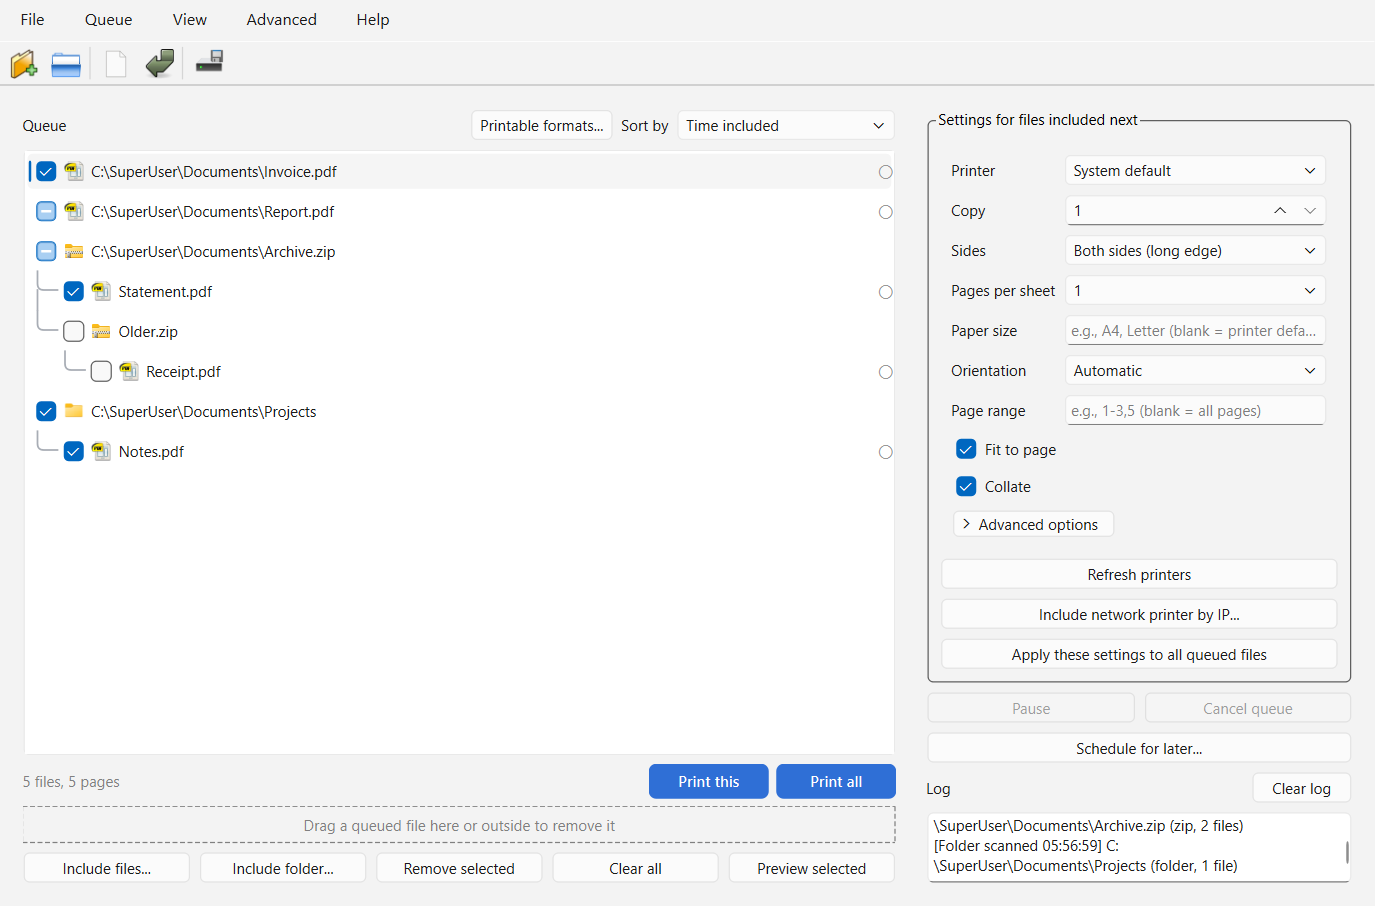
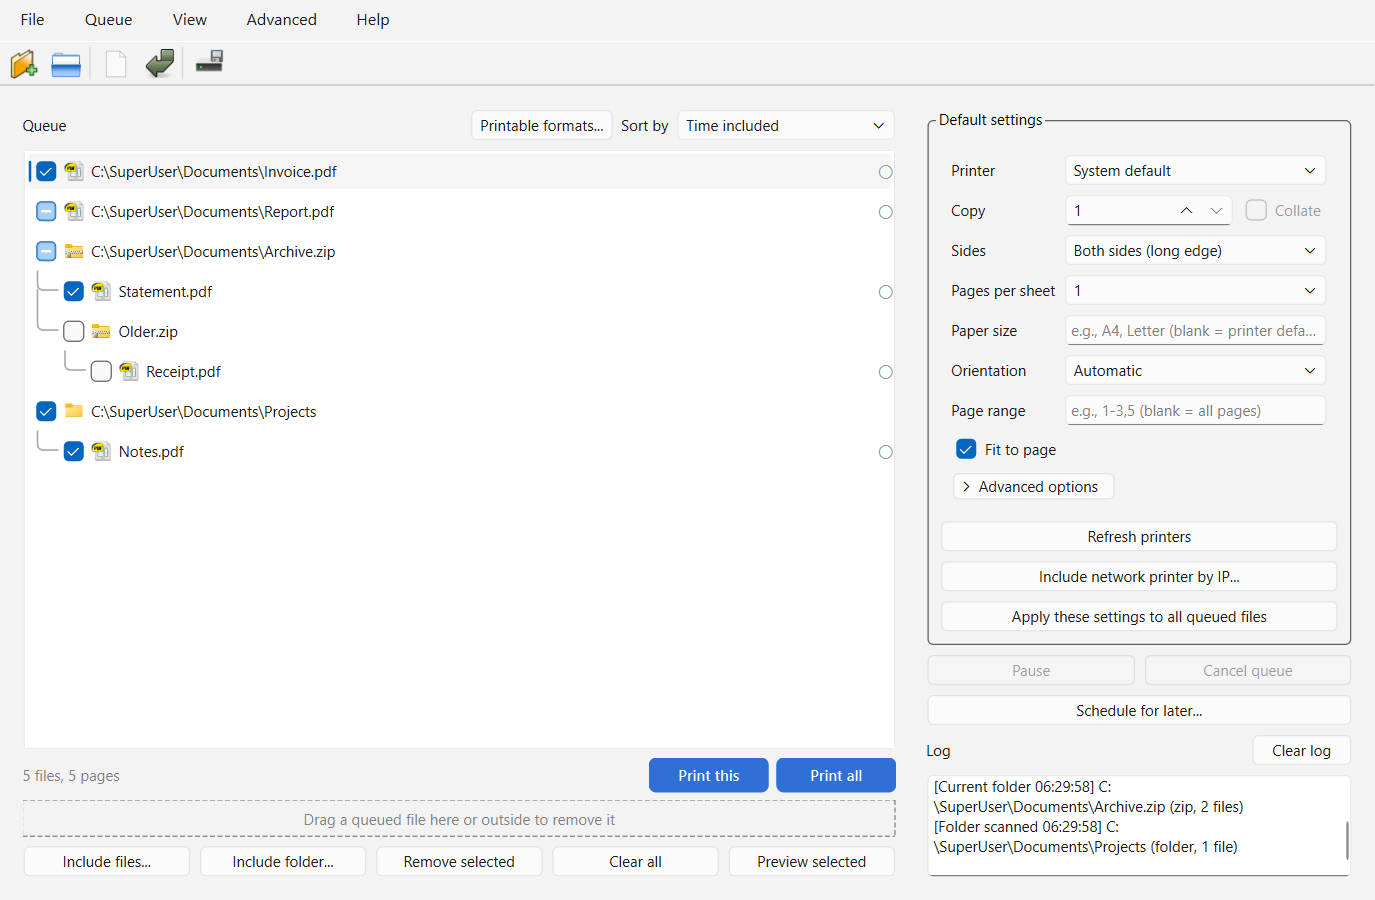
Collate

diff --git a/printtool/gui/widgets.py b/printtool/gui/widgets.py
@@ -6,6 +6,7 @@ from __future__ import annotations
 
 from PySide6.QtCore import Qt
 from PySide6.QtWidgets import (
+    QHBoxLayout,
     QCheckBox,
     QComboBox,
     QFormLayout,
@@ -55,8 +56,11 @@ class SettingsWidget(QWidget):
         self.fit_check = QCheckBox("Fit to page")
         self.fit_check.setChecked(True)
 
+        # Collate only matters with more than one copy: Off for one copy,
+        # switched on (and preset) as soon as the count goes above one.
         self.collate_check = QCheckBox("Collate")
-        self.collate_check.setChecked(True)
+        self.collate_check.setToolTip("With several copies, print whole sets (1-2-3, 1-2-3) instead of 1-1, 2-2, 3-3.")
+        self.copies_spin.valueChanged.connect(self._sync_collate)
 
         self.buffer_copy_check = QCheckBox("Copy to a temporary file before printing")
         self.buffer_copy_check.setToolTip(
@@ -95,18 +99,28 @@ class SettingsWidget(QWidget):
 
         layout = QFormLayout(self)
         layout.addRow("Printer", self.printer_combo)
-        layout.addRow("Copy", self.copies_spin)
+        copy_row = QHBoxLayout()
+        copy_row.addWidget(self.copies_spin, 1)
+        copy_row.addWidget(self.collate_check)
+        layout.addRow("Copy", copy_row)
         layout.addRow("Sides", self.duplex_combo)
         layout.addRow("Pages per sheet", self.nup_combo)
         layout.addRow("Paper size", self.paper_edit)
         layout.addRow("Orientation", self.orientation_combo)
         layout.addRow("Page range", self.pages_edit)
         layout.addRow(self.fit_check)
-        layout.addRow(self.collate_check)
         layout.addRow(advanced_toggle)
         layout.addRow(advanced_box)
 
         self.load_settings(default_print_settings())
+
+    def _sync_collate(self, copies: int) -> None:
+        many = copies > 1
+        if many and not self.collate_check.isEnabled():
+            self.collate_check.setChecked(True)
+        if not many:
+            self.collate_check.setChecked(False)
+        self.collate_check.setEnabled(many)
 
     def refresh_printers(self, printers: list[str], default: str | None) -> None:
         current = self.printer_combo.currentData()
@@ -129,7 +143,7 @@ class SettingsWidget(QWidget):
             orientation=self.orientation_combo.currentData(),
             page_range=self.pages_edit.text().strip() or None,
             fit_to_page=self.fit_check.isChecked(),
-            collate=self.collate_check.isChecked(),
+            collate=self.collate_check.isChecked() if self.copies_spin.value() > 1 else True,
             buffer_copy=self.buffer_copy_check.isChecked(),
             delete_after_print=self.delete_after_print_check.isChecked(),
             mirror_lr=self.mirror_lr_check.isChecked(),
@@ -146,7 +160,9 @@ class SettingsWidget(QWidget):
         self.orientation_combo.setCurrentIndex(self.orientation_combo.findData(settings.orientation))
         self.pages_edit.setText(settings.page_range or "")
         self.fit_check.setChecked(settings.fit_to_page)
-        self.collate_check.setChecked(settings.collate)
+        many = self.copies_spin.value() > 1
+        self.collate_check.setEnabled(many)
+        self.collate_check.setChecked(settings.collate and many)
         self.buffer_copy_check.setChecked(settings.buffer_copy)
         self.delete_after_print_check.setChecked(settings.delete_after_print)
         self.mirror_lr_check.setChecked(settings.mirror_lr)
